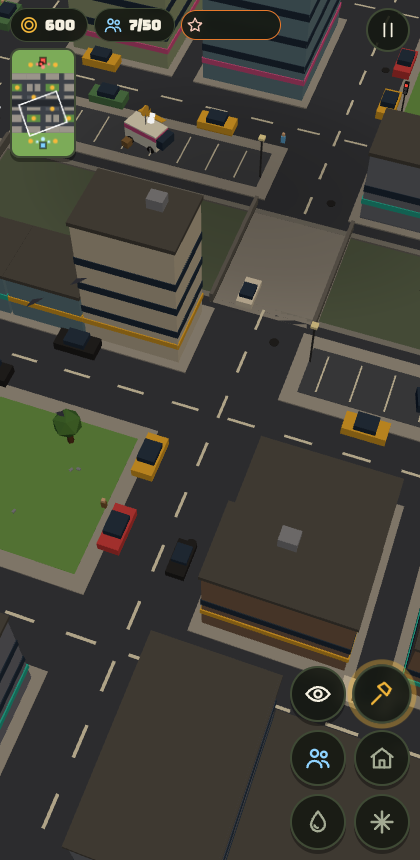
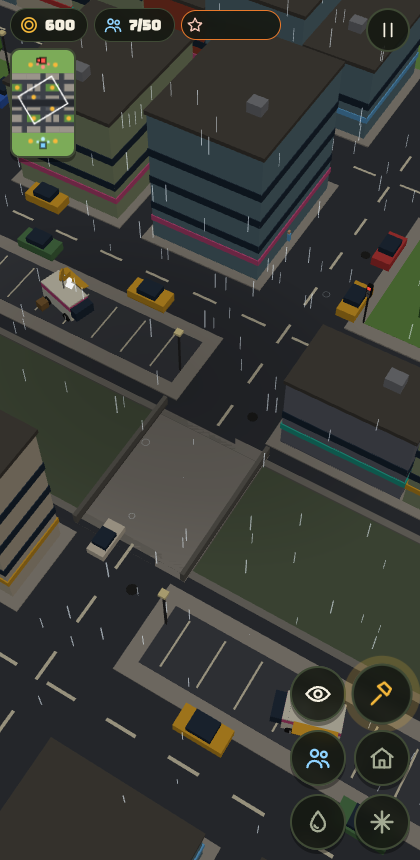
B120: Menu long-press names (dev aid): holding any menu button (faction cards, difficulty stars, mode buttons, sound, graphics) for ~0.45 s shows its name in the tooltip bubble, and that press then does nothing (a normal tap still acts)
Claude-Session: https://claude.ai/code/session_01FXzpagnksiDmMAqP3MTiXJ

diff --git a/src/main.js b/src/main.js
@@ -1,22 +1,22 @@
 // Entry point: wires sim + render + input + UI and runs the fixed-step loop.
-import { renderer, scene, camera, followSun, THREE, setTimeOfDay, sun } from './render/scene.js?v=119';
-import { buildWorld, updateWorld, setDusk, setRain, setLowWorld } from './render/world.js?v=119';
-import { syncRender, clearRender, bump } from './render/sync.js?v=119';
-import { handleEvents, updateFx, clearFx } from './fx/fx.js?v=119';
-import { newSim, getSim, step } from './sim/sim.js?v=119';
-import { TICK } from './config/factions.js?v=119';
-import { CAM, applyCam, resetCam, onResize } from './camera/camera.js?v=119';
-import { initInput, lockPageZoom } from './input/input.js?v=119';
-import { refreshHUD, resetHUD, updatePlaceBar } from './ui/hud.js?v=119';
-import { resetUI } from './ui/state.js?v=119';
-import { fillIcons, svg } from './ui/icons.js?v=119';
-import { noteAlerts, updateAlert, clearAlert } from './ui/alert.js?v=119';
-import { updateMinimap } from './ui/minimap.js?v=119';
-import { isMuted, setMuted } from './fx/sfx.js?v=119';
-import { loadChars } from './render/chars.js?v=119';
-import { FC } from './render/models.js?v=119';
+import { renderer, scene, camera, followSun, THREE, setTimeOfDay, sun } from './render/scene.js?v=120';
+import { buildWorld, updateWorld, setDusk, setRain, setLowWorld } from './render/world.js?v=120';
+import { syncRender, clearRender, bump } from './render/sync.js?v=120';
+import { handleEvents, updateFx, clearFx } from './fx/fx.js?v=120';
+import { newSim, getSim, step } from './sim/sim.js?v=120';
+import { TICK } from './config/factions.js?v=120';
+import { CAM, applyCam, resetCam, onResize } from './camera/camera.js?v=120';
+import { initInput, lockPageZoom } from './input/input.js?v=120';
+import { refreshHUD, resetHUD, updatePlaceBar, showTip } from './ui/hud.js?v=120';
+import { resetUI } from './ui/state.js?v=120';
+import { fillIcons, svg } from './ui/icons.js?v=120';
+import { noteAlerts, updateAlert, clearAlert } from './ui/alert.js?v=120';
+import { updateMinimap } from './ui/minimap.js?v=120';
+import { isMuted, setMuted } from './fx/sfx.js?v=120';
+import { loadChars } from './render/chars.js?v=120';
+import { FC } from './render/models.js?v=120';
 
-export const BUILD = 119; // written by `npm run bump`
+export const BUILD = 120; // written by `npm run bump`
 lockPageZoom();
 fillIcons();
 buildWorld();
@@ -86,6 +86,14 @@ function applyGfx() {
 gfxBtn.addEventListener('pointerup', (e) => { e.stopPropagation(); lowGfx = !lowGfx; try { localStorage.setItem('cw-low', lowGfx ? '1' : '0'); } catch (er) {} applyGfx(); });
 gfxBtn.addEventListener('pointerdown', (e) => e.stopPropagation());
 applyGfx();
+// Dev aid: long-press any menu button (faction, stars, modes, sound, graphics) to see its name; the press then does nothing.
+{
+  let lp = null; const tip = document.getElementById('tip');
+  const name = (el) => el.getAttribute('aria-label') || (el.childNodes[1] && el.childNodes[1].textContent) || el.textContent.trim();
+  document.addEventListener('pointerdown', (e) => { const el = e.target.closest('#menu button, #muteBtn, #gfxBtn'); if (!el) return; lp = { el, long: false, t: setTimeout(() => { lp.long = true; showTip(el, name(el)); }, 450) }; }, true);
+  const end = (e) => { if (!lp) return; clearTimeout(lp.t); tip.hidden = true; if (lp.long && e.type === 'pointerup') { e.stopImmediatePropagation(); e.preventDefault(); } lp = null; };
+  document.addEventListener('pointerup', end, true); document.addEventListener('pointercancel', end, true);
+}
 // Pause: freezes the sim and every animation (dt 0) but keeps drawing; tap the dim to resume. Auto-pauses when the
 // phone switches away from the tab.
 let paused = false;

diff --git a/index.html b/index.html
@@ -6,7 +6,7 @@
 <meta name="viewport" content="width=device-width,initial-scale=1,maximum-scale=1,user-scalable=no,viewport-fit=cover">
 <link rel="preconnect" href="https://fonts.googleapis.com">
 <link rel="stylesheet" href="https://fonts.googleapis.com/css2?family=Bungee&family=Lilita+One&display=swap">
-<link rel="stylesheet" href="./src/ui/style.css?v=119">
+<link rel="stylesheet" href="./src/ui/style.css?v=120">
 <!-- No build step needed: GitHub Pages serves this file straight from main, so bare 'three' imports resolve here. -->
 <script type="importmap">
 { "imports": { "three": "./vendor/three/three.module.min.js", "three/examples/jsm/": "./vendor/three/jsm/" } }
@@ -35,7 +35,7 @@
 <div id="box"></div>
 <div id="holdRing" hidden></div>
 <div id="menu" class="overlay">
-  <h1>Culture <em>Wars</em><span>GREYBOX 04 · <b id="build">B119</b></span></h1>
+  <h1>Culture <em>Wars</em><span>GREYBOX 04 · <b id="build">B120</b></span></h1>
   <div class="diff" id="diff"><button type="button" data-d="0" aria-label="Easy"><span class="ic" data-i="star"></span></button><button type="button" data-d="1" class="on" aria-label="Normal"><span class="ic" data-i="star"></span><span class="ic" data-i="star"></span></button><button type="button" data-d="2" aria-label="Hard"><span class="ic" data-i="star"></span><span class="ic" data-i="star"></span><span class="ic" data-i="star"></span></button><i class="sep"></i><button type="button" class="mode" data-m="vs" aria-label="Versus"><span class="ic" data-i="home"></span></button><button type="button" class="mode" data-m="hill" aria-label="King of the Hill"><span class="ic" data-i="flag"></span></button><button type="button" class="mode" data-m="cap" aria-label="Capture and Hold"><span class="ic" data-i="hold"></span></button><button type="button" class="mode" data-m="race" aria-label="Resource Race"><span class="ic" data-i="coin"></span></button><button type="button" class="mode" data-m="hero" aria-label="Hero vs Hero"><span class="ic" data-i="hero"></span></button></div>
   <div class="picks">
     <button class="pick" data-f="bw" type="button"><span class="ic" data-i="truck"></span>Backwoods<small>FEWER · TOUGHER</small></button>
@@ -65,6 +65,6 @@
   setTimeout(function () { if (!window.__cwBooted) show('Game script did not start (old cached file? wait a few minutes and reload)'); }, 8000);
 })();
 </script>
-<script type="module" src="./src/main.js?v=119" onerror="__cwLoadFail()"></script>
+<script type="module" src="./src/main.js?v=120" onerror="__cwLoadFail()"></script>
 </body>
 </html>

diff --git a/src/ui/hud.js b/src/ui/hud.js
@@ -1,15 +1,15 @@
 // HUD: resource chips, context panel, command buttons, floating placement confirm, long-press labels.
 // Buttons are described as data ("specs") each refresh; the DOM is rebuilt only when the set of buttons changes.
 // Every action goes through sim.command(); Q.* is used only for instant feedback (shake, dim).
-import { svg } from './icons.js?v=119';
-import { UI, select, selSquads } from './state.js?v=119';
-import { getSim, pl, fac, Q, command, count, cpUsed, cpCap, hqOf } from '../sim/sim.js?v=119';
-import { BLD, BUILD_KINDS, TRAIN_SLOTS, UPG, REQ } from '../config/factions.js?v=119';
-import { CAM, toggleView, focus } from '../camera/camera.js?v=119';
-import { camera } from '../render/scene.js?v=119';
-import { walkH } from '../map/layout.js?v=119';
-import { THREE } from '../render/scene.js?v=119';
-import { showHint } from './hint.js?v=119';
+import { svg } from './icons.js?v=120';
+import { UI, select, selSquads } from './state.js?v=120';
+import { getSim, pl, fac, Q, command, count, cpUsed, cpCap, hqOf } from '../sim/sim.js?v=120';
+import { BLD, BUILD_KINDS, TRAIN_SLOTS, UPG, REQ } from '../config/factions.js?v=120';
+import { CAM, toggleView, focus } from '../camera/camera.js?v=120';
+import { camera } from '../render/scene.js?v=120';
+import { walkH } from '../map/layout.js?v=120';
+import { THREE } from '../render/scene.js?v=120';
+import { showHint } from './hint.js?v=120';
 
 const panelEl = document.getElementById('panel'), cmdEl = document.getElementById('cmd'), queueEl = document.getElementById('queue');
 const placeBar = document.getElementById('placeBar'), tipEl = document.getElementById('tip');
@@ -190,7 +190,7 @@ function confirmPlace() {
 // ---- Press handling: tap = action, hold = show the button's name ----
 let hold = null;
 function shake(el) { el.classList.remove('shake'); void el.offsetWidth; el.classList.add('shake'); }
-function showTip(el, text) {
+export function showTip(el, text) {
   tipEl.textContent = text; tipEl.hidden = false;
   const r = el.getBoundingClientRect(), w = tipEl.offsetWidth, h = tipEl.offsetHeight;
   tipEl.style.left = Math.max(8, Math.min(window.innerWidth - w - 8, r.left + r.width / 2 - w / 2)) + 'px';

diff --git a/src/render/sync.js b/src/render/sync.js
@@ -1,19 +1,19 @@
 // Mirrors sim state into the scene every frame. Reads the sim, never writes to it.
-import { THREE, scene, camera, mat, box, basic, ringMesh, disposeObj, casts } from './scene.js?v=119';
-import { makeMember, bldMesh, nodeMesh, formation, FC } from './models.js?v=119';
-import { makeChar, charsReady, play, CAST } from './chars.js?v=119';
-import { emit } from '../fx/particles.js?v=119';
-import { bark } from '../fx/sfx.js?v=119';
-import { TICK } from '../config/factions.js?v=119';
-import { walkH } from '../map/layout.js?v=119';
-import { NODE_AMOUNT, BLD, BUILD_RADIUS, FACTIONS } from '../config/factions.js?v=119';
-import { CAM } from '../camera/camera.js?v=119';
+import { THREE, scene, camera, mat, box, basic, ringMesh, disposeObj, casts } from './scene.js?v=120';
+import { makeMember, bldMesh, nodeMesh, formation, FC } from './models.js?v=120';
+import { makeChar, charsReady, play, CAST } from './chars.js?v=120';
+import { emit } from '../fx/particles.js?v=120';
+import { bark } from '../fx/sfx.js?v=120';
+import { TICK } from '../config/factions.js?v=120';
+import { walkH } from '../map/layout.js?v=120';
+import { NODE_AMOUNT, BLD, BUILD_RADIUS, FACTIONS } from '../config/factions.js?v=120';
+import { CAM } from '../camera/camera.js?v=120';
 const fac0 = (S) => FACTIONS[S.players[0].f];
-import { Q, pl, getSim } from '../sim/sim.js?v=119';
-import { UI } from '../ui/state.js?v=119';
-import { fxConfetti, fxDeath } from '../fx/fx.js?v=119';
+import { Q, pl, getSim } from '../sim/sim.js?v=120';
+import { UI } from '../ui/state.js?v=120';
+import { fxConfetti, fxDeath } from '../fx/fx.js?v=120';
 import { mergeGeometries } from 'three/examples/jsm/utils/BufferGeometryUtils.js';
-import { lerpAngle } from '../util/math.js?v=119';
+import { lerpAngle } from '../util/math.js?v=120';
 // Selection rings take your faction colour, washed toward white so they still pop on any ground.
 const selCol = () => { const S = getSim(), f = S && S.players[0].f; return f ? new THREE.Color(FC[f].main).lerp(new THREE.Color(0xffffff), 0.35).getHex() : 0xffffff; };
 

diff --git a/src/input/input.js b/src/input/input.js
@@ -4,13 +4,13 @@
 //   hold then drag  = box select
 //   2 fingers       = pinch zoom + twist to rotate + drag to pan
 //   mouse: right-drag = box select, wheel = zoom; keys WASD/arrows pan, Q/E rotate, V ghost cam, Esc cancel
-import { THREE, camera, canvas } from '../render/scene.js?v=119';
-import { walkH } from '../map/layout.js?v=119';
-import { getSim, command } from '../sim/sim.js?v=119';
-import { UI, select, selSquads } from '../ui/state.js?v=119';
-import { CAM, panBy, clampCam, toggleView, pxPerUnit } from '../camera/camera.js?v=119';
-import { fxMarker } from '../fx/fx.js?v=119';
-import { ack } from '../render/sync.js?v=119';
+import { THREE, camera, canvas } from '../render/scene.js?v=120';
+import { walkH } from '../map/layout.js?v=120';
+import { getSim, command } from '../sim/sim.js?v=120';
+import { UI, select, selSquads } from '../ui/state.js?v=120';
+import { CAM, panBy, clampCam, toggleView, pxPerUnit } from '../camera/camera.js?v=120';
+import { fxMarker } from '../fx/fx.js?v=120';
+import { ack } from '../render/sync.js?v=120';
 
 const ray = new THREE.Raycaster(), ndc = new THREE.Vector2(), tmp = new THREE.Vector3();
 export function groundAt(cx, cy) {

diff --git a/src/fx/fx.js b/src/fx/fx.js
@@ -1,12 +1,12 @@
 // Visual effects. Reads sim events, never changes the sim.
 // To add an effect for a new mechanic: emit S.events.push({k:'myThing', ...}) in the sim,
 // then add a case in handleEvents below.
-import { THREE, scene, mat, cyl, basic, disposeObj } from '../render/scene.js?v=119';
-import { walkH } from '../map/layout.js?v=119';
-import { sfx } from './sfx.js?v=119';
-import { shake, CAM } from '../camera/camera.js?v=119';
-import { FC } from '../render/models.js?v=119';
-import { emit, updateParticles, clearParticles, burstHit, burstShot, burstCoins } from './particles.js?v=119';
+import { THREE, scene, mat, cyl, basic, disposeObj } from '../render/scene.js?v=120';
+import { walkH } from '../map/layout.js?v=120';
+import { sfx } from './sfx.js?v=120';
+import { shake, CAM } from '../camera/camera.js?v=120';
+import { FC } from '../render/models.js?v=120';
+import { emit, updateParticles, clearParticles, burstHit, burstShot, burstCoins } from './particles.js?v=120';
 
 const fx = [];
 function addFx(obj, life, upd) { scene.add(obj); fx.push({ obj, life, t: 0, upd }); }

diff --git a/src/render/world.js b/src/render/world.js
@@ -1,10 +1,10 @@
 // Static city: streets, sidewalks, buildings, parks, freeway trench + overpasses, ambient traffic.
 // Built once from map/layout.js. Mostly InstancedMesh so it stays cheap on phones.
-import { THREE, scene, mat, box, setOvercast } from './scene.js?v=119';
-import { CAM } from '../camera/camera.js?v=119';
-import { MAP, BLOCKS, TREES, PARKED, TRENCH, OVERPASSES, AVENUES, CROSS_STREETS, HOME_Z, inRect, walkH } from '../map/layout.js?v=119';
-import { hash } from '../util/math.js?v=119';
-import { emit } from '../fx/particles.js?v=119';
+import { THREE, scene, mat, box, setOvercast } from './scene.js?v=120';
+import { CAM } from '../camera/camera.js?v=120';
+import { MAP, BLOCKS, TREES, PARKED, TRENCH, OVERPASSES, AVENUES, CROSS_STREETS, HOME_Z, inRect, walkH } from '../map/layout.js?v=120';
+import { hash } from '../util/math.js?v=120';
+import { emit } from '../fx/particles.js?v=120';
 
 const COL = {
   asphalt: 0x3d4148, sidewalk: 0xa8a49a, grass: 0x6f9e50, lawn: 0x7cab58, lot: 0x4b4f56, stripe: 0xe8e2c8,

diff --git a/src/ui/style.css b/src/ui/style.css
@@ -65,7 +65,7 @@ svg { width: 100%; height: 100%; fill: none; stroke: currentColor; stroke-width:
 #placeBar .btn.close { background: rgba(70, 30, 26, .88); border-color: #7a3a33; }
 #placeBar .btn.close .ic { color: var(--bad); }
 
-#tip { position: fixed; z-index: 20; pointer-events: none; background: var(--fg); color: #17170f; font: 15px/1.1 var(--display); padding: 8px 12px; border-radius: 12px; box-shadow: 0 6px 18px rgba(0, 0, 0, .45); white-space: nowrap; }
+#tip { position: fixed; z-index: 50; pointer-events: none; background: var(--fg); color: #17170f; font: 15px/1.1 var(--display); padding: 8px 12px; border-radius: 12px; box-shadow: 0 6px 18px rgba(0, 0, 0, .45); white-space: nowrap; }
 
 @media (orientation: landscape) {
   #dock { left: auto; top: 0; flex-direction: row; justify-content: flex-end; align-items: flex-end; /* panel beside the command grid: a single column overflowed short phones */

diff --git a/src/sim/sim.js b/src/sim/sim.js
@@ -9,11 +9,11 @@
 import {
   TICK, START_CASH, BUILD_RADIUS, MAX_WORKERS, NODE_AMOUNT, GATHER_T, CARRY, BASE_INCOME, DEPOT_INCOME,
   COUNTER, REQ, UPG, UPT, BLD, FACTIONS,
-} from '../config/factions.js?v=119';
-import { MAP, NODES, BASES, walkH } from '../map/layout.js?v=119';
-import { markCircle, isBlocked, lineClear, nearestFree, findPath, blocked, cellOf, cellCenter, inGrid } from '../map/grid.js?v=119';
-import { mulberry32 } from '../util/math.js?v=119';
-import { aiStep } from './ai.js?v=119';
+} from '../config/factions.js?v=120';
+import { MAP, NODES, BASES, walkH } from '../map/layout.js?v=120';
+import { markCircle, isBlocked, lineClear, nearestFree, findPath, blocked, cellOf, cellCenter, inGrid } from '../map/grid.js?v=120';
+import { mulberry32 } from '../util/math.js?v=120';
+import { aiStep } from './ai.js?v=120';
 
 let S = null;
 export const getSim = () => S;

diff --git a/src/ui/minimap.js b/src/ui/minimap.js
@@ -1,8 +1,8 @@
 // Minimap, top-left under the resource chips. Fixed orientation: your base at the bottom (+z), enemy at the top.
 // Tap or drag on it to move the camera there. Static city is drawn once; units/buildings redraw ~10x a second.
-import { MAP, BLOCKS, TRENCH } from '../map/layout.js?v=119';
-import { CAM, focus } from '../camera/camera.js?v=119';
-import { getSim } from '../sim/sim.js?v=119';
+import { MAP, BLOCKS, TRENCH } from '../map/layout.js?v=120';
+import { CAM, focus } from '../camera/camera.js?v=120';
+import { getSim } from '../sim/sim.js?v=120';
 
 const cv = document.getElementById('mini'), ctx = cv.getContext('2d');
 const bg = document.createElement('canvas'), bctx = bg.getContext('2d');

diff --git a/src/ui/alert.js b/src/ui/alert.js
@@ -1,9 +1,9 @@
 // Under-attack alert: when something of yours is hit somewhere the camera is not looking, a red arrow pulses on
 // the screen edge pointing at it. Tap the arrow to fly there. Newest fight wins; it fades 5 s after the last hit.
-import { THREE, camera } from '../render/scene.js?v=119';
-import { walkH } from '../map/layout.js?v=119';
-import { focus } from '../camera/camera.js?v=119';
-import { svg } from './icons.js?v=119';
+import { THREE, camera } from '../render/scene.js?v=120';
+import { walkH } from '../map/layout.js?v=120';
+import { focus } from '../camera/camera.js?v=120';
+import { svg } from './icons.js?v=120';
 
 const el = document.getElementById('alert');
 el.innerHTML = svg('up');

diff --git a/src/render/chars.js b/src/render/chars.js
@@ -2,7 +2,7 @@
 // clips drives all of them: the clips come from three DONOR files and are retargeted onto each rig by bone name.
 // Nothing here is required: until the files load (or if they fail, e.g. the single-file artifact build) the
 // box placeholders in models.js are used, and sync.js swaps squads over once this reports ready.
-import { THREE } from './scene.js?v=119';
+import { THREE } from './scene.js?v=120';
 import { GLTFLoader } from 'three/examples/jsm/loaders/GLTFLoader.js';
 import { DRACOLoader } from 'three/examples/jsm/loaders/DRACOLoader.js';
 import { clone as skClone } from 'three/examples/jsm/utils/SkeletonUtils.js';
